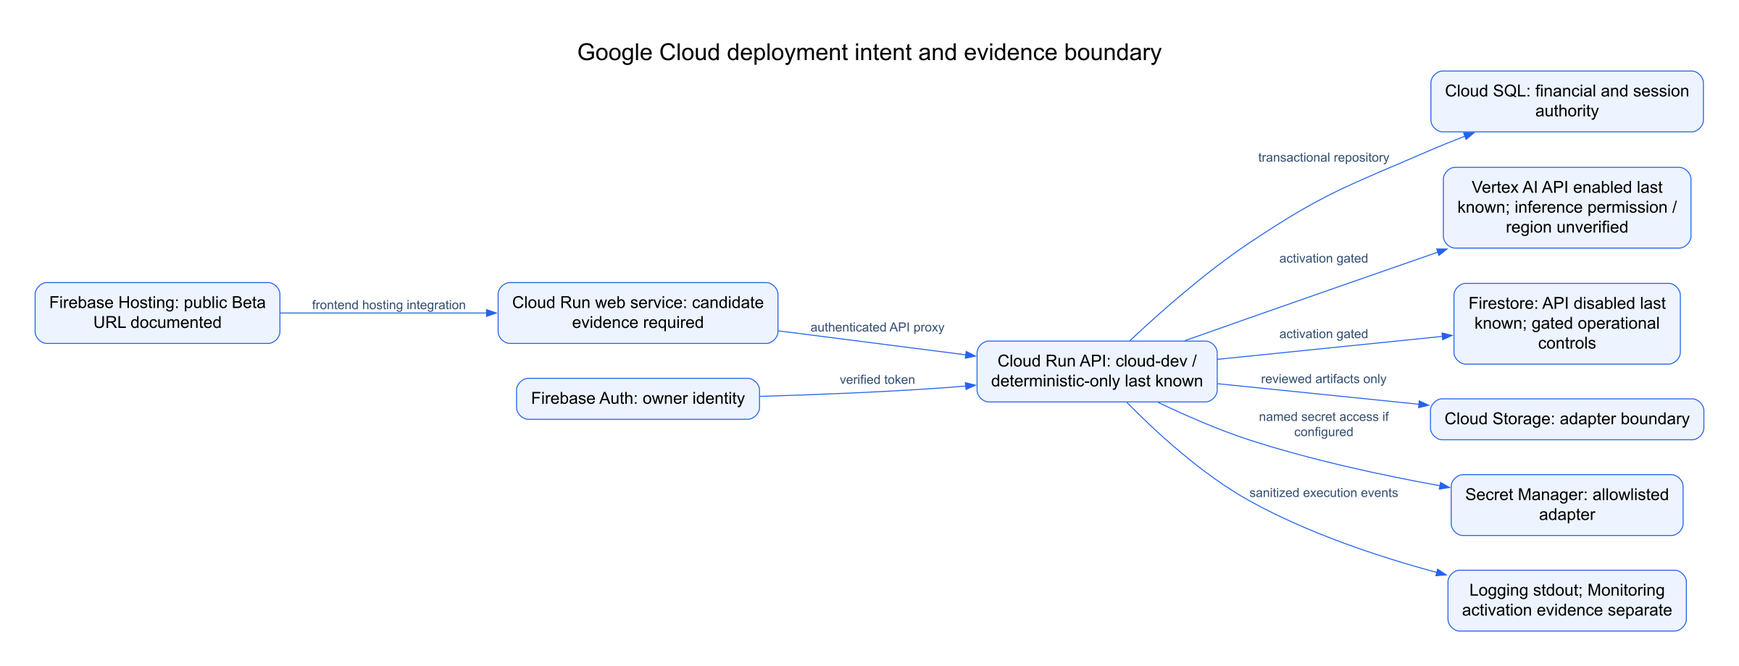
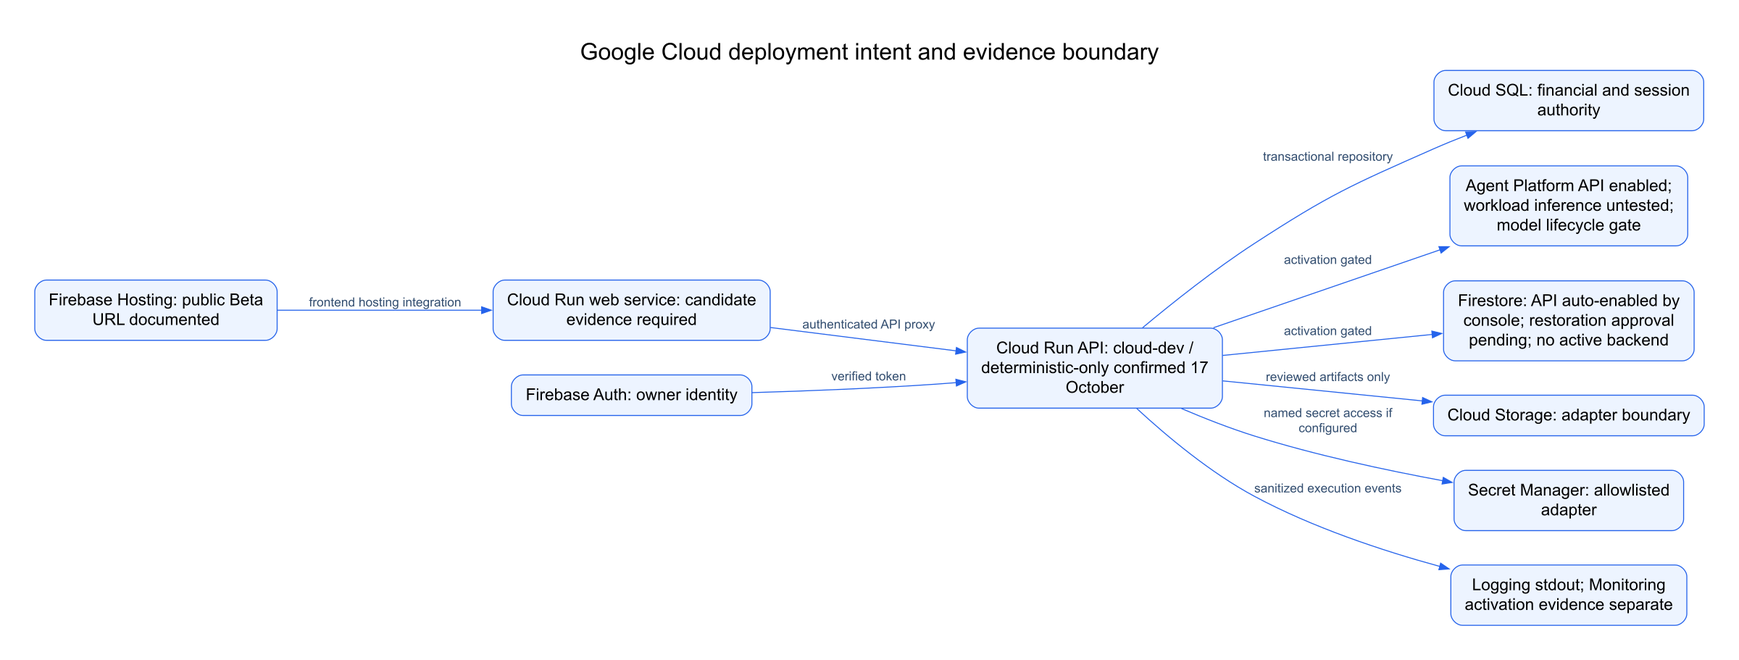
docs: record current cloud inventory and unintended API activation

diff --git a/docs/submission/acceptance-report.md b/docs/submission/acceptance-report.md
@@ -16,11 +16,11 @@ window, not certification. [Backend log](evidence/backend-tests.txt), [build log
 | Explore Demo | Understand and govern the move | Read-only public preview now links prominently into complete Harbor Light execution; checksum-pinned fixture versions preserve old journeys | Existing preview publicly reachable; new candidate not deployed | Golden HTTP lifecycle, state/replay, compatibility tests passed | Human decisions and deterministic controls retained | 17/17 combined UI acceptance checks passed through verified FPU | `GuidedDemo.tsx`, `discover_assess/service.py`, `test_beta_v1_integration.py`, `test_session_snapshot_compat.py` | Local combined browser acceptance passed; no current cloud persistence proof | Local candidate Go; external No-Go |
 | Play | Learn without technical expertise | Genuine pixel office, male accountant, movement, four interactions, evidence/mapping puzzle, failure/correction, unlock; isolated React state | Local candidate only | Gameplay/state and UI suites passed | Zero financial API requests in browser acceptance | 14/14 browser checks; desktop and 390px touch; reduced motion | [Browser evidence](browser-play/browser-evidence.json), [implementation](../play/IMPLEMENTATION.md) | Broader assistive-technology/user research not performed | Go for bounded local mission; deployment pending |
 | Try Your Data | Find compatibility issues safely | Browser-local template/individual files/flat ZIP, exact validation/checksums, repair/revalidate/review; retained full local server flow | Cloud/production select browser fallback; selected-file hosted handoff disabled | Parser/ZIP negatives, UI controls, 110 original API intake checks and full suites passed | No fallback network/storage/model context; hosted isolation/malware/retention/abuse tests remain gates | Actual downloaded template→local check→explicit review verified | [Delivery evidence](../security/try-data-delivery.md) | Hosted capability unfinished and independently release-gated; no uploaded-data FPU claim | Browser fallback Go; hosted upload No-Go |
-| Gemini Advisor | Explain uncertain proposals | Five-context shared ADK advisor, strict synthetic projections, structured evidence, timeout/fallback; public admission now gated | Last-known public deterministic-only; no current candidate inference | Advisor, schema/injection/authority/stale/replay tests and actual ADK runner with scripted offline model passed | Explicit synthetic auth, owner/global reservation quotas, budget/kill switch source; bounded ADC/RPC admission | Visible fallback available; live user-triggered Gemini not verified | `agents/reasoning`, `reasoning.py`, [controls](../security/model-controls.md) | Effective Vertex permissions/region, current prices, durable control operations and deployment unknown | Live activation No-Go |
+| Gemini Advisor | Explain uncertain proposals | Five-context shared ADK advisor, strict synthetic projections, structured evidence, timeout/fallback; public admission now gated | Serving API configuration confirmed deterministic-only; no current candidate inference | Advisor, schema/injection/authority/stale/replay tests and actual ADK runner with scripted offline model passed | Explicit synthetic auth, owner/global reservation quotas, budget/kill switch source; bounded ADC/RPC admission | Visible fallback available; live user-triggered Gemini not verified | `agents/reasoning`, `reasoning.py`, [controls](../security/model-controls.md) | Project Allow-role grant observed; effective workload inference untested; model retires20October; current prices/durable controls unverified | Live activation No-Go |
 | Independent Reviewer | Second opinion before mapping | Separate output/instruction/evidence contract and independent challenge of account 1200; owner scoped, stale/replay guarded | Local deterministic fallback implemented; no live/deployed Reviewer proof | Separate contract, forgery/authority/false-clearance, stale context, persistence and offline ADK tests passed | No advisor consumption or financial tools; known usage retained even for rejected output | Actual local CHALLENGED result and visible fallback passed in combined walkthrough | `agents/reviewer/agent.py`, `reviewer.py`, `test_independent_review.py` | Single mapping projection lacks source purpose/settlement history; no broad reasoning-quality claim | Local slice Go; live activation No-Go |
 | Agent Quality Judge | Reproducible reasoning/execution regression | Pure offline evaluator; 18 versioned positive/adversarial output/trace cases | Internal command only | Expected acceptance/rejection detection 18/18; evaluator immutability/trace tests passed | No API, repository or financial-state writes | Engineering evaluation, not representative-user study | [Case report](agent-quality-evidence.json), `scripts/agent_quality_judge.py` | 100% is contract detection, not model accuracy; live model quality unmeasured | Go for stated offline scope |
 | Product Quality Judge | Evidence-backed taste/readiness | Separate weighted criteria and 13 taste dimensions, promise discrepancies and release actions | Internal report | Evidence review; not a model benchmark | Cannot authorize release or change financial state | Independent source and bounded browser inspection | [Judge report](product-quality-judge.md) | Final independent disposition includes accepted browser/video evidence; no user research | Go as checkpoint; submission No-Go |
-| Firestore | Operational control and visibility | Async transaction reservations and terminal advisory outcomes; strict owner-filtered readback, explicit UI refresh, source rules/indexes, bounded admission and sanitized fields | Not enabled or mutated in this sprint; API disabled at last known check | Transaction decision, SDK-port, owner/read/write denial, projection, quota/outage/deadline, completion immutability and pre-provider denial tests passed | Conservative reservations never refunded; client/owner/IAM/live contention/retention gates pending | No live Firestore acceptance | `runtime/model_controls.py`, `test_model_controls.py` | Readback, owner checks and client-write denial implemented and tested offline; real index/rules/IAM/database acceptance unverified | No-Go for activation |
+| Firestore | Operational control and visibility | Async transaction reservations and terminal advisory outcomes; strict owner-filtered readback, explicit UI refresh, source rules/indexes, bounded admission and sanitized fields | Candidate backend not deployed; console follow-up unintentionally auto-enabled API, with restoration approval pending; no database created | Transaction decision, SDK-port, owner/read/write denial, projection, quota/outage/deadline, completion immutability and pre-provider denial tests passed | Conservative reservations never refunded; client/owner/IAM/live contention/retention gates pending | No live Firestore acceptance | `runtime/model_controls.py`, `test_model_controls.py` | Readback, owner checks and client-write denial implemented and tested offline; real index/rules/IAM/database acceptance unverified | No-Go for activation |
 | Financial validation | Prove migrated numbers | Exact Decimal reconciliation, record/reference/checksum/balance checks; blocked results stop progress | Existing code, new candidate local | Golden, mismatch/repair/revalidation tests passed | Models and approval cannot clear failed checks | Exact checks passed in the complete UI walkthrough | `tools/validation/checks.py`, `test_validate_configure.py`, `test_validation_failures.py` | Current deployed synthetic execution/durability not verified; no production claim | Local regression/UI acceptance Go; deployment pending |
 | Verified FPU | Know the new books are usable | Governed onboarding, approved synthetic invoice, idempotent posting and deterministic receipt verification | Candidate local; no new provider integration | FPU, actor/approval/state/stale/replay/cloud-owner tests passed locally | No AI financial authority; required task/control contract retained | Actual UI approved, posted and verified invoice total USD 107.25; all 10 onboarding tasks complete | `agents/orchestrator/onboard_fpu.py`, `test_onboard_fpu.py` | Real provider/customer use and current cloud persistence excluded | Local tests/UI Go; deployment gate pending |
 | PM artifacts | One product decision reference | All 15 concise artifacts indexed, seven feature contracts and promise matrix | Source-controlled local candidate | Repository/document link checks pass | Assumed insights/metrics labeled; no invented research | Owner review pending | [PM index](../product-management/README.md) | Local code/test/browser evidence reconciled; deployed evidence still pending | Go for review |
@@ -47,3 +47,7 @@ window, not certification. [Backend log](evidence/backend-tests.txt), [build log
 The exact BFSI challenge is [user-confirmed](problem-statement.md). The delivery reduces financial
 handover uncertainty and automates a complex bounded process; no fraud-detection or real-customer
 performance claim is made.
+
+## Current console inventory follow-up
+
+User-authorized [17 October cloud inspection](cloud-inspection-2026-10-17.md) confirms healthy serving API/web revisions and deterministic-only API configuration. Project IAM shows an Agent Platform user grant, but effective workload inference remains untested. The configured Cloud SQL instance is runnable; no automated backup policy/HA is enabled. `gemini-2.5-flash` retires20October2026, requiring replacement evaluation. Opening the Firestore database inventory unexpectedly auto-enabled its API; this was disclosed and separate rollback approval is pending. No database, IAM, deployment or traffic change was made. These facts supersede earlier unknown/disabled-state summaries without granting any live-candidate acceptance.

diff --git a/docs/submission/cloud-inspection-2026-10-17.md b/docs/submission/cloud-inspection-2026-10-17.md
@@ -1,0 +1,94 @@
+# Current cloud inspection — 17 October 2026
+
+User explicitly authorized read-only inspection of the existing `movebooks-ai` Google Cloud project,
+including service revisions/configuration, IAM, Vertex/Gemini availability, Firestore status, logs
+and deployment health. The earlier automatic browser approval block was resolved by that direct
+permission. This report supersedes prior statements that no current console evidence was available.
+No paid inference request, financial action, IAM edit, database creation, deployment or traffic
+change was performed. **There was an unintended API-enablement side effect, recorded below.**
+
+## Configuration and service observations
+
+| Item | Current observation | Limit of evidence |
+| --- | --- | --- |
+| API Cloud Run service | Healthy and serving traffic in `asia-southeast1`; `movebooks-beta-api-rel2997e20` receives 100%; deployed 9 October 2026, 21:20:59 IST | Console status/configuration; no new authenticated financial journey |
+| API image digest | `sha256:9d95c18f29db96f3b361638212d22bc7a2b8b30f4bd5fd826a12ae1453d2c2a0` | Image bytes/source provenance not independently reconstructed |
+| API workload | `movebooks-beta-api@movebooks-ai.iam.gserviceaccount.com` | Serving revision's Security tab |
+| API safe configuration | `cloud-dev`; Firebase identity; demo identity false; `cloud-sql` persistence; `gcs` storage; structured logs; `deterministic-only` model provider | Configuration is not execution proof for SQL/storage/authentication |
+| API bounds | 1 CPU, 512 MiB, concurrency 8, request timeout 60 seconds, revision maximum 1 instance | Does not establish load capacity |
+| Web Cloud Run service | Healthy; `movebooks-beta-web-ux2f781012182645` receives 100%; deployed 12 October 2026, 23:56:47 IST | Separate older public release, not local submission candidate |
+| Web image digest | `sha256:ee3773bc25bb101021a754fdc11731758b5fd9ca158c98ff2c66d1a2208f4d30` | No source/image equivalence claim |
+| Web safe configuration | Firebase identity; API proxy `/api`; private API origin points to existing API; additional allowed web origin includes `https://movebooks-si.web.app` | Firebase Hosting routing itself was not separately inspected |
+| Cloud SQL | `movebooks-beta-pg`: Available/Runnable, PostgreSQL 17, `asia-southeast1-c`; matches configured API instance | No SQL query, data/backup restoration or connection test |
+| SQL operating gaps | Console reports one high-priority issue: no automated backup policy; high availability is not enabled | Dev/test posture; remediation requires scoped approval; not production readiness |
+| Container security metadata | Serving API revision reports vulnerability information/build/source information unavailable and threat detection disabled | Local dependency audits do not replace current production-image scanning |
+
+Source console pages:
+
+- [API revisions](https://console.cloud.google.com/run/detail/asia-southeast1/movebooks-beta-api/revisions?project=movebooks-ai)
+- [Web revisions](https://console.cloud.google.com/run/detail/asia-southeast1/movebooks-beta-web/revisions?project=movebooks-ai)
+- [Project IAM](https://console.cloud.google.com/iam-admin/iam?project=movebooks-ai)
+- [Cloud SQL instances](https://console.cloud.google.com/sql/instances?project=movebooks-ai)
+
+## IAM, model API and lifecycle
+
+The project IAM principal row for the serving API identity shows **Agent Platform user**, Cloud SQL
+Client, Cloud SQL Instance User and the custom **MoveBooks token revocation check** role. The two SQL
+roles display the `beta-instance-only` condition. No Firestore data role was visible in that principal
+row. This is a project Allow-policy observation; role IDs, full permission expansion, resource-level
+policy, effective Deny/VPC-SC evaluation, impersonation and current workload inference were not tested.
+Do not treat a role label as proof that a specific model request will succeed.
+
+The enabled-service inventory and [Agent Platform API detail](https://console.cloud.google.com/apis/api/aiplatform.googleapis.com/overview?project=movebooks-ai)
+confirm `aiplatform.googleapis.com` is enabled. The API dashboard's 30-day Methods table shows 20
+GenerateContent and one CountTokens request with 0% reported API errors. This aggregate is historical,
+not attributed to the Cloud Run identity or the candidate, and does not measure structured-output
+acceptance, reasoning quality or customer outcomes. No new generation was invoked during inspection.
+
+The historical bounded test selected `gemini-2.5-flash`; the source pins reasoning location to
+`asia-southeast1` and requires an explicit capability-to-model map. The serving revision has no live
+model map and remains deterministic-only. Google's current model documentation lists
+`asia-southeast1` as supported **and retirement on 20 October 2026**. A supported replacement needs
+regional, SDK/ADK, structured-output, tool, safety, quota and price evaluation before live activation.
+No automatic model substitution or deployment change is authorized by this finding.
+
+Primary public references, checked 17 October 2026:
+
+- [Gemini 2.5 Flash regions and retirement](https://docs.cloud.google.com/gemini-enterprise-agent-platform/models/gemini/2-5-flash), updated 16 October 2026.
+- [Firebase model shutdown FAQ](https://firebase.google.com/docs/ai-logic/faq-and-troubleshooting), independently confirms the Agent Platform retirement date.
+
+## Operational logs
+
+The [existing API log pane](https://console.cloud.google.com/run/detail/asia-southeast1/movebooks-beta-api/observability/logs?project=movebooks-ai)
+showed historical request/status records from 10–13 October, including HTTP 200 identity,
+configuration and onboarding requests, followed by a normal application shutdown on 13 October.
+It does not prove current signed-in execution, no errors outside that displayed window, candidate
+acceptance or model activity. Request/session identifiers and raw records are omitted here.
+
+## Unintended Firestore API activation — correction approval pending
+
+1. The full enabled-service inventory initially omitted Firestore. The
+   [Firestore API library detail](https://console.cloud.google.com/apis/library/firestore.googleapis.com?project=movebooks-ai)
+   explicitly displayed **Enable** (disabled state).
+2. Opening the Firestore database inventory as a status inspection displayed an error saying the
+   console had attempted to auto-enable the API. No Enable/Create/Save action was taken.
+3. The agent immediately left that inventory page. Returning to the library detail confirmed
+   **API Enabled** with **Manage**. Thus an unintended project configuration change did occur. [Observed API-enabled screenshot](evidence/firestore-auto-enabled-console.png).
+4. The inventory also displayed an empty table and “You don't have any databases in this project
+   yet,” alongside its API error. This is not an authoritative successful database enumeration.
+   The agent did not create or modify a database, index, rule or policy.
+5. The agent disclosed the incident and requested separate explicit approval to disable only
+   `firestore.googleapis.com`, restoring the prior state. **Approval is pending; no rollback was
+   performed.** Do not revisit a product landing page that can auto-enable a disabled service.
+
+Current API-enabled status is **not** evidence of an activated operational backend. The candidate's
+Firestore controls/readback remain undeployed and unprovisioned. Database existence/region, indexes,
+rules, workload access, transaction behavior and owner isolation remain unverified.
+
+## Release disposition
+
+Read-only inventory supplies current serving revision/configuration and bounded IAM/API/health
+observations. It does not authorize live-model activation, Firestore provisioning, IAM changes,
+backup/HA changes, candidate deployment, public uploads or publication. Overall submission stays
+No-Go for its remaining mandatory inputs and release gates. Resolve the accidental API state with
+the user, evaluate the imminent model retirement, and prepare exact scoped changes for review.

diff --git a/docs/submission/release-authorization-plan.md b/docs/submission/release-authorization-plan.md
@@ -1,6 +1,6 @@
 # Scoped cloud validation and release authorization plan
 
-Prepared against local integration code `1a24a2c`. **This plan has not been executed or approved.**
+Prepared against local integration code `1a24a2c`. **Only the user-authorized inventory has been performed; resource/release changes remain unapproved.**
 Existing public Beta and its traffic remain untouched. Read-only reachability checks returned
 HTTP 200 for the Beta and public repository; they do not identify the deployed source or prove
 signed-in execution. Current environment has no usable ADC credentials or gcloud executable.
@@ -8,11 +8,11 @@ signed-in execution. Current environment has no usable ADC credentials or gcloud
 ## Requested verification: current read-only inventory, then isolated validation
 
 Scope the work to project `movebooks-ai` and workload
-`movebooks-beta-api@movebooks-ai.iam.gserviceaccount.com`. The directive requests read-only verification. Local CLI/ADC access is unavailable. An existing signed-in Google Cloud console tab was found, but automatic approval review rejected observation because it could expose private project/account data and did not find explicit authorization in the trusted messages. A direct request for read-only console inspection is pending. This is an automatic review rejection, not a manual user refusal. No alternate surface or indirect access will be used to bypass it. Once explicit access is authorized, inspect current service revisions,
-identity, environment, IAM bindings/effective access, SQL/storage readiness and logging using the
-user's authorized Google Cloud session. Do not print tokens or full environment variables.
-No financial-session mutation belongs to this inventory. Confirm the actual project, database,
-regions and spend limits before proposing resource changes.
+`movebooks-beta-api@movebooks-ai.iam.gserviceaccount.com`. The user directly authorized read-only console inspection on 17 October 2026. The earlier automatic browser approval block is resolved. [Current inspection and its limits](cloud-inspection-2026-10-17.md) record serving revisions, deterministic-only configuration, project Allow-role labels, API state, historical logs and Cloud SQL health. Local CLI/ADC remains unavailable. No fresh workload inference or financial journey was performed.
+
+**Incident:** opening the Firestore database inventory automatically enabled `firestore.googleapis.com` despite no Enable action. This exceeded read-only scope; it was disclosed immediately. Separate permission to restore the API to disabled is pending. No database, IAM or deployment change was made. Avoid any product page that can auto-enable disabled services.
+
+**Model gate:** Google's documentation lists `gemini-2.5-flash` retirement on 20 October2026. Evaluate a supported regional replacement with the existing safety/structured-output contract and current price bounds before proposing live configuration. The API remains deterministic-only.
 
 The following mutations require a **separate explicit approval after that inventory**, not a
 blanket grant from this document:

diff --git a/docs/architecture-experience/README.md b/docs/architecture-experience/README.md
@@ -2,7 +2,7 @@
 
 Version 1, source baseline `8f750d9`, 17 October 2026. Mermaid files and SVGs are editable sources; PNG exports support presentations. `source/diagrams.json` is the shared semantic specification and `source/render-diagrams.mjs` reproduces SVG/PNG exports. Sequence message names are conceptual operations anchored in the source below, not claims of undocumented API routes.
 
-**Evidence boundary:** public Beta hosting is documented; candidate cloud services are not newly verified here. Last-known cloud mode is deterministic-only. Vertex API enablement does not prove inference permission or regional access. Firestore reservations, terminal advisory outcomes and owner-scoped operational readback are implemented gated source; live integration remains unverified. Existing audit records remain separate. Reviewer is a candidate until implementation/test/deployment evidence establishes its status. Internal Judges remain outside financial execution. Trust & Governance is a logical policy responsibility, not an active LLM runtime.
+**Evidence boundary:** public Beta hosting is documented; the local candidate is not deployed. Serving API configuration was confirmed deterministic-only on17October; [current console findings](../submission/cloud-inspection-2026-10-17.md) supersede earlier cloud-status assumptions. Vertex API enablement does not prove inference permission or regional access. Firestore reservations, terminal advisory outcomes and owner-scoped operational readback are implemented gated source; live integration remains unverified. Existing audit records remain separate. Reviewer is a candidate until implementation/test/deployment evidence establishes its status. Internal Judges remain outside financial execution. Trust & Governance is a logical policy responsibility, not an active LLM runtime.
 
 ## Catalogue
 
@@ -36,7 +36,7 @@ Version 1, source baseline `8f750d9`, 17 October 2026. Mermaid files and SVGs ar
 - Identity, persistence, adapters: `services/api/src/movebooks_api/auth.py`, `runtime/persistence.py`, `runtime/storage.py`, `docs/architecture/google-native-runtime.md`.
 - Intake: `services/api/src/movebooks_api/intake.py`, `intake_api.py`, `apps/web/components/try-your-data/package-contract.json`, `docs/architecture/try-your-data.md`.
 - Recovery/reconciliation/FPU: `tests/test_migrate_resolve.py`, `test_validate_configure.py`, `test_onboard_fpu.py`, `test_beta_v1_integration.py`.
-- Cloud truth: `docs/deployment/public-beta.md`, `docs/reviews/google-cloud-validation.md`, user-provided last-known cloud facts. Current deployment must be independently rechecked before presentation as live.
+- Cloud truth: `docs/deployment/public-beta.md`, `docs/reviews/google-cloud-validation.md`, user-provided last-known cloud facts. Current console inventory identifies older serving revisions; it is separate from local candidate deployment acceptance.
 
 ## Important reading rules
 

diff --git a/docs/submission/packaging-status.md b/docs/submission/packaging-status.md
@@ -19,7 +19,7 @@ No cost, benchmark, adoption, financial impact, accuracy or performance result i
 
 ## Read-only link evidence from integration owner
 
-On 17 October 2026, the public prototype returned HTTP 200 with the MoveBooks AI title. GitHub REST returned repository `JEMathew/movers-and-ledgers`, `private:false`, default branch `main`, last pushed `2026-10-12T16:47:16Z`. These observations prove reachability/public visibility only. The candidate was not deployed by this packaging work. `/api/v1/runtime` returned 404, so it supplies no runtime capability evidence. No ADC/gcloud was available. A signed-in cloud console tab exists, but automatic approval review blocked content inspection pending direct explicit read-only authorization; no workaround was attempted.
+On 17 October 2026, the public prototype returned HTTP 200 with the MoveBooks AI title. GitHub REST returned repository `JEMathew/movers-and-ledgers`, `private:false`, default branch `main`, last pushed `2026-10-12T16:47:16Z`. These observations prove reachability/public visibility only. The candidate was not deployed by this packaging work. `/api/v1/runtime` returned 404, so it supplies no runtime capability evidence. Local ADC/gcloud was unavailable. The user subsequently authorized console inspection; [current findings](cloud-inspection-2026-10-17.md) record healthy older serving revisions, deterministic-only API configuration, model retirement and an unintended Firestore API auto-enablement. Restoration approval is pending; no database/IAM/deployment change was made.
 
 The candidate offline Agent Quality Judge has 18 golden contract cases in `evals/agent_quality_cases.json`, runner `scripts/agent_quality_judge.py`, and report `docs/submission/agent-quality-evidence.json`. Its reported 100% score measures expected contract acceptance/rejection detection with zero live model calls. It must not be presented as model accuracy, financial accuracy or customer impact.
 

diff --git a/docs/submission/README.md b/docs/submission/README.md
@@ -11,6 +11,7 @@ Reviewable content package, 17 October 2026. **Not a completed official submissi
 - [Acceptance and release matrix](acceptance-report.md)
 - [Machine-readable evidence manifest](evidence-manifest.json)
 - [Independent Product Quality Judge](product-quality-judge.md)
+- [Current cloud inspection and disclosed Firestore auto-enablement incident](cloud-inspection-2026-10-17.md)
 - [Scoped cloud validation and release authorization plan](release-authorization-plan.md)
 - [Packaging status and open submission checks](packaging-status.md)
 - [Packaging validation record](packaging-validation.json)
